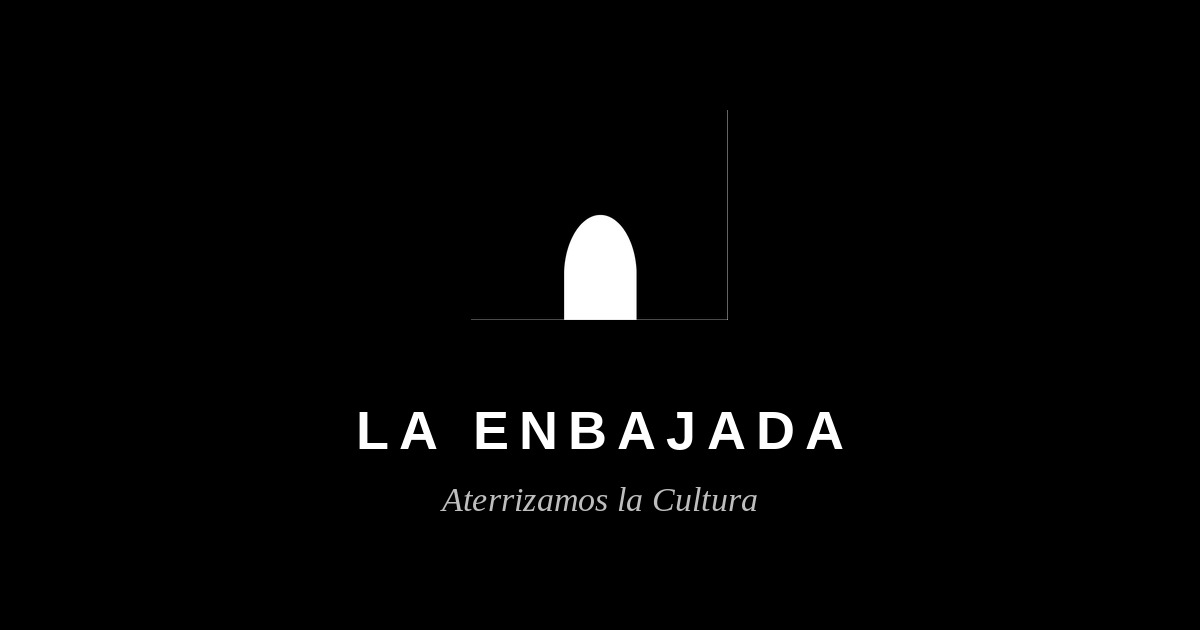
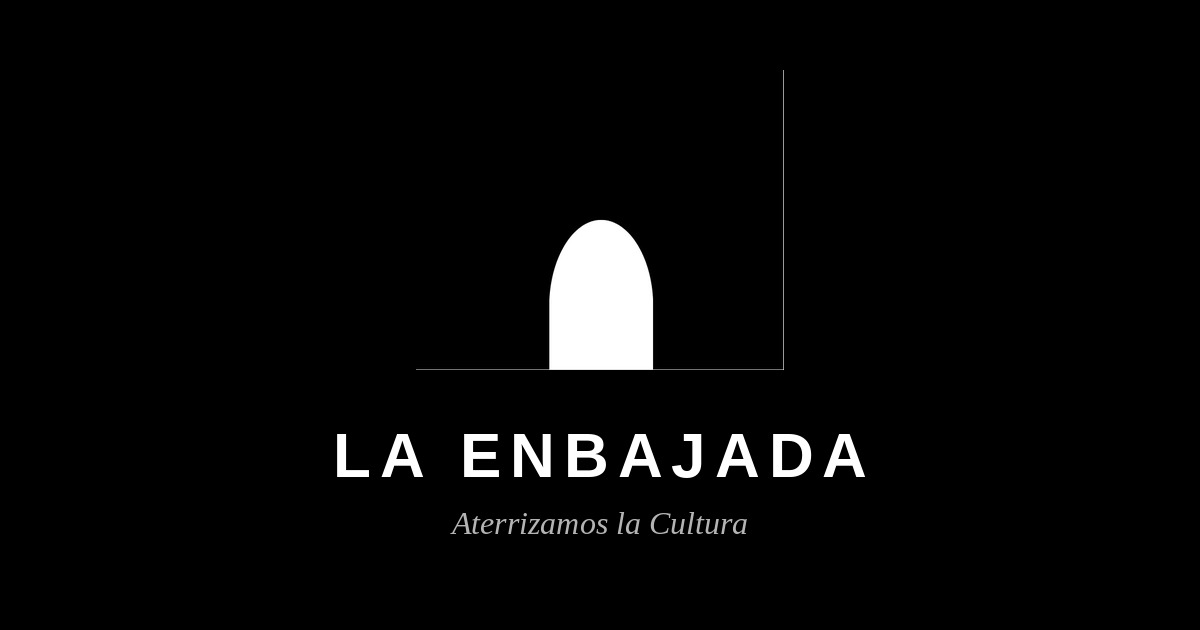
va

Changed region(s): [[0.2775, 0.6333, 0.74, 0.8444], [0.4317, 0.3921, 0.555, 0.6032], [0.4933, 0.3317, 0.5242, 0.3619]]

diff --git a/admin.html b/admin.html
@@ -4904,6 +4904,7 @@ async function cargarMetricas() {
   if (listPages) listPages.innerHTML = '<div class="empty"><div class="empty-ic">⌛</div><h3>Cargando…</h3></div>';
 
   try {
+    /* Leer visitas desde Supabase — tabla `visitas` */
     const rango = g('met-filtro-rango')?.value || 'todo';
     let filtro = 'order=created_at.desc';
     if (rango === 'hoy') {
@@ -4917,13 +4918,11 @@ async function cargarMetricas() {
       filtro += `&created_at=gte.${d30.toISOString()}`;
     }
 
-    const [visitas, arts] = await Promise.all([
-      SB.select('visitas', filtro + '&limit=5000').catch(() => null),
-      SB.select('articulos', 'select=id,titulo,slug,seccion_tag').catch(() => []),
-    ]);
+    const visitas = await SB.select('visitas', filtro + '&limit=2000').catch(() => null);
 
     if (!visitas) {
-      const msg = '<div style="padding:24px;text-align:center;color:var(--t3);font-size:13px">La tabla <code style="font-family:var(--mono)">visitas</code> no existe aún.</div>';
+      /* Tabla no existe aún */
+      const msg = '<div style="padding:24px;text-align:center;color:var(--t3);font-size:13px">La tabla <code style="font-family:var(--mono);background:var(--bg2);padding:1px 5px">visitas</code> no existe aún. Descarga el SQL de métricas y ejecútalo en Supabase.</div>';
       if (listArts)  listArts.innerHTML  = msg;
       if (listPages) listPages.innerHTML = msg;
       return;
@@ -4932,23 +4931,24 @@ async function cargarMetricas() {
     /* Totales */
     const hoy = new Date(); hoy.setHours(0,0,0,0);
     const d7  = new Date(); d7.setDate(d7.getDate()-7);
-    const total    = visitas.length;
-    const hoyCount = visitas.filter(v => new Date(v.created_at) >= hoy).length;
-    const semCount = visitas.filter(v => new Date(v.created_at) >= d7).length;
-    const uniqArts = new Set(visitas.filter(v=>v.tipo==='articulo').map(v=>v.referencia_id)).size;
-    const uniqSes  = new Set(visitas.map(v=>v.sesion_id).filter(Boolean)).size;
+    const total      = visitas.length;
+    const hoyCount   = visitas.filter(v => new Date(v.created_at) >= hoy).length;
+    const semCount   = visitas.filter(v => new Date(v.created_at) >= d7).length;
+    const uniqArts   = new Set(visitas.filter(v => v.tipo==='articulo').map(v=>v.referencia_id)).size;
 
-    if (g('met-total'))       g('met-total').textContent       = total.toLocaleString('es-CO');
-    if (g('met-hoy'))         g('met-hoy').textContent         = hoyCount;
-    if (g('met-semana'))      g('met-semana').textContent      = semCount.toLocaleString('es-CO');
+    if (g('met-total'))      g('met-total').textContent      = total.toLocaleString('es-CO');
+    if (g('met-hoy'))        g('met-hoy').textContent        = hoyCount;
+    if (g('met-semana'))     g('met-semana').textContent     = semCount.toLocaleString('es-CO');
     if (g('met-arts-vistos')) g('met-arts-vistos').textContent = uniqArts;
-    if (g('met-sesiones'))    g('met-sesiones').textContent    = uniqSes.toLocaleString('es-CO');
-
+    /* Sesiones únicas */
+    const uniqSes = new Set(visitas.map(v => v.sesion_id).filter(Boolean)).size;
+    if (g('met-sesiones'))   g('met-sesiones').textContent   = uniqSes.toLocaleString('es-CO');
+    /* Gráfico de tendencia */
     _renderMetChart(visitas);
 
     /* Artículos más leídos */
     const conteoArts = {};
-    visitas.filter(v=>v.tipo==='articulo'&&v.referencia_id).forEach(v=>{
+    visitas.filter(v => v.tipo === 'articulo' && v.referencia_id).forEach(v => {
       conteoArts[v.referencia_id] = (conteoArts[v.referencia_id]||0) + 1;
     });
     const artsSorted = Object.entries(conteoArts).sort((a,b)=>b[1]-a[1]).slice(0,20);
@@ -4957,28 +4957,31 @@ async function cargarMetricas() {
       if (!artsSorted.length) {
         listArts.innerHTML = '<div class="empty"><div class="empty-ic">📰</div><h3>Sin vistas de artículos aún</h3></div>';
       } else {
-        const maxV = artsSorted[0]?.[1] || 1;
+        const arts = await DB.getArticulos().catch(()=>[]);
+        const maxVistas = artsSorted[0]?.[1] || 1;
         listArts.innerHTML = artsSorted.map(([artId, cnt], i) => {
-          const art = (arts||[]).find(a => a.id === artId);
-          const artUrl = art?.slug && art?.seccion_tag
-            ? `/secciones/${art.seccion_tag}/${art.slug}`
-            : art?.slug ? `/historias/${art.slug}` : null;
-          const titulo = !art
-            ? `<span style="opacity:.45;font-size:12px">Artículo eliminado</span>`
-            : artUrl
-              ? `<a href="${artUrl}" target="_blank" style="color:inherit;text-decoration:none;font-style:italic">${art.titulo}</a>`
-              : `<span style="font-style:italic">${art.titulo}</span>`;
+          const art = arts.find(a => a.id === artId);
+          const eliminado = !art;
+          const titulo = eliminado
+            ? `<span style="opacity:.45;font-style:normal;font-size:12px">Artículo eliminado</span> <span style="font-family:var(--mono);font-size:10px;color:var(--t4)">${artId.slice(0,8)}…</span>`
+            : `<a href="articulo.html?id=${artId}" target="_blank" style="color:inherit;text-decoration:none;font-style:italic">${art.titulo}</a>`;
           const secBadge = art?.seccion_tag
-            ? `<span style="font-size:9px;font-family:var(--ui);color:var(--azul);background:rgba(0,74,173,.07);padding:1px 7px;border-radius:2px;font-weight:600">${art.seccion_tag}</span>` : '';
-          const pct = Math.round(cnt/maxV*100);
-          return `<div style="display:grid;grid-template-columns:22px 1fr 60px;gap:10px;align-items:center;padding:12px 18px;border-bottom:1px solid var(--bd)">
+            ? `<span style="font-size:9px;font-family:var(--sans);color:var(--azul);background:rgba(0,74,173,.07);padding:1px 7px;border-radius:2px;font-weight:600">${art.seccion_tag}</span>` : '';
+          const estadoBadge = art?.estado === 'borrador'
+            ? `<span style="font-size:9px;font-family:var(--sans);color:var(--t3);background:var(--paper2);padding:1px 7px;border-radius:2px">borrador</span>` : '';
+          const pct = Math.round(cnt / maxVistas * 100);
+          return `<div class="met-art-row" data-titulo="${eliminado?'eliminado '+(artId.slice(0,8)):art.titulo}" style="display:grid;grid-template-columns:22px 1fr 60px;gap:10px;align-items:center;padding:12px 18px;border-bottom:1px solid var(--bd);${eliminado?'opacity:.55;background:repeating-linear-gradient(45deg,transparent,transparent 4px,rgba(0,0,0,.02) 4px,rgba(0,0,0,.02) 8px)':''}">
             <div style="font-family:var(--mono);font-size:11px;color:var(--t4);text-align:right">${i+1}</div>
             <div>
-              <div style="font-family:var(--serif);font-size:14px;font-weight:700;color:var(--t1);margin-bottom:4px;display:flex;align-items:center;gap:6px;flex-wrap:wrap">${titulo} ${secBadge}</div>
-              <div style="height:3px;background:var(--bd);border-radius:2px"><div style="height:3px;background:var(--azul);border-radius:2px;width:${pct}%"></div></div>
+              <div style="font-family:var(--serif);font-size:14px;font-weight:700;color:var(--t1);margin-bottom:4px;display:flex;align-items:center;gap:6px;flex-wrap:wrap">
+                ${eliminado ? '🗑 ' : ''}${titulo} ${secBadge} ${estadoBadge}
+              </div>
+              <div style="height:3px;background:var(--bd);border-radius:2px">
+                <div style="height:3px;background:${eliminado?'var(--t4)':'var(--azul)'};border-radius:2px;width:${pct}%;transition:width .6s"></div>
+              </div>
             </div>
             <div style="text-align:right">
-              <div style="font-family:var(--mono);font-size:16px;font-weight:700;color:var(--azul)">${cnt}</div>
+              <div style="font-family:var(--mono);font-size:16px;font-weight:700;color:${eliminado?'var(--t3)':'var(--azul)'}">${cnt}</div>
               <div style="font-size:8px;letter-spacing:.1em;text-transform:uppercase;color:var(--t4)">vistas</div>
             </div>
           </div>`;
@@ -4986,10 +4989,10 @@ async function cargarMetricas() {
       }
     }
 
-    /* Páginas */
+    /* Páginas del sitio */
     const conteoPages = {};
-    visitas.filter(v=>v.tipo!=='articulo').forEach(v=>{
-      const p = v.pagina||'desconocida';
+    visitas.filter(v => v.tipo !== 'articulo').forEach(v => {
+      const p = v.pagina || 'desconocida';
       conteoPages[p] = (conteoPages[p]||0) + 1;
     });
     const pagesSorted = Object.entries(conteoPages).sort((a,b)=>b[1]-a[1]);
@@ -4998,15 +5001,16 @@ async function cargarMetricas() {
       if (!pagesSorted.length) {
         listPages.innerHTML = '<div class="empty"><div class="empty-ic">◈</div><h3>Sin visitas de páginas aún</h3></div>';
       } else {
-        const maxP = pagesSorted[0]?.[1]||1;
-        const icons = {index:'🏠',secciones:'◈',edicion:'📰',archivo:'◫',sobre:'◑',editor:'◉',articulo:'📄'};
-        listPages.innerHTML = pagesSorted.map(([pag,cnt])=>{
+        const maxP = pagesSorted[0]?.[1] || 1;
+        const icons = { index:'🏠', secciones:'◈', edicion:'📰', archivo:'◫', sobre:'◑', editor:'◉' };
+        listPages.innerHTML = pagesSorted.map(([pag, cnt]) => {
           const pct = Math.round(cnt/maxP*100);
+          const ic  = icons[pag] || '◎';
           return `<div style="display:grid;grid-template-columns:28px 1fr 60px;gap:10px;align-items:center;padding:12px 18px;border-bottom:1px solid var(--bd)">
-            <div style="text-align:center;font-size:14px">${icons[pag]||'◎'}</div>
+            <div style="text-align:center;font-size:14px">${ic}</div>
             <div>
-              <div style="font-family:var(--ui);font-size:12px;font-weight:700;letter-spacing:.05em;color:var(--t1);margin-bottom:4px">${pag}</div>
-              <div style="height:3px;background:var(--bd);border-radius:2px"><div style="height:3px;background:var(--azul);border-radius:2px;width:${pct}%"></div></div>
+              <div style="font-family:var(--ui);font-size:12px;font-weight:700;letter-spacing:.05em;color:var(--t1);margin-bottom:4px">${pag}.html</div>
+              <div style="height:3px;background:var(--bg2);border-radius:2px"><div style="height:3px;background:var(--oro2,#a07840);border-radius:2px;width:${pct}%;transition:width .6s var(--ease)"></div></div>
             </div>
             <div style="text-align:right">
               <div style="font-family:var(--mono);font-size:16px;font-weight:700;color:var(--t2)">${cnt}</div>
@@ -5016,8 +5020,9 @@ async function cargarMetricas() {
         }).join('');
       }
     }
+
   } catch(e) {
-    const msg = `<div style="padding:20px;color:#c0392b;font-size:13px">Error cargando métricas: ${e.message}</div>`;
+    const msg = `<div style="padding:20px;color:#c0392b;font-size:13px">Error: ${e.message}</div>`;
     if (listArts)  listArts.innerHTML  = msg;
     if (listPages) listPages.innerHTML = msg;
   }
@@ -7137,9 +7142,35 @@ async function guardarEditor() {
   if (!nombre) { notif('El nombre es obligatorio','warn'); return; }
   const overlay = g('loading-overlay'); if (overlay) overlay.classList.add('show');
   try {
+    /* ── Foto: subir a Storage solo si es base64 (nueva) ──
+       FIX: antes esto guardaba el base64 directo en foto_url sin subirlo
+       a Storage (a diferencia de artículos y ediciones, que sí lo hacían).
+       Un foto_url en base64 funciona para mostrarla en la propia página,
+       pero no sirve como og:image para los previews de WhatsApp/Facebook,
+       que necesitan una URL http(s) real y descargable. */
     const fotoData = g('ed-foto-data')?.value || '';
-    const fotoUrl  = g('ed-foto-url')?.value?.trim() || '';
-    const foto     = fotoData || fotoUrl || null;
+    let foto = g('ed-foto-url')?.value?.trim() || null;
+    if (fotoData && fotoData.startsWith('data:')) {
+      try {
+        const blob = await fetch(fotoData).then(r => r.blob());
+        const ext  = blob.type.includes('png') ? 'png' : 'jpg';
+        const nombreArchivo = `editores/${Date.now()}.${ext}`;
+        const res = await fetch(`${SUPA_URL}/storage/v1/object/imagenes/${nombreArchivo}`, {
+          method: 'POST',
+          headers: { 'apikey': SUPA_KEY, 'Authorization': `Bearer ${SUPA_KEY}`, 'Content-Type': blob.type, 'x-upsert': 'true' },
+          body: blob,
+        });
+        if (res.ok) {
+          foto = `${SUPA_URL}/storage/v1/object/public/imagenes/${nombreArchivo}`;
+        } else {
+          foto = fotoData; /* fallback: al menos queda visible en el sitio */
+        }
+      } catch(e) {
+        foto = fotoData; /* fallback */
+      }
+    } else if (!foto) {
+      foto = fotoData || null;
+    }
     const payload  = {
       nombre, foto_url: foto, activo: true,
       slug:  _slugify(g('ed-slug')?.value || nombre),
@@ -7157,7 +7188,7 @@ async function guardarEditor() {
 
     /* Reasignar órdenes secuenciales para evitar duplicados y huecos */
     try {
-      const todosEds = await SB.select('editores', 'activo=eq.true&order=orden.asc,created_at.asc');
+      const todosEds = await SB.select('editores', 'activo=eq.true&order=orden.asc,nombre.asc');
       /* Si el editor guardado tiene un orden distinto, insertarlo en esa posición */
       const nuevoOrden = payload.orden;
       const edId = id || null;
@@ -7203,7 +7234,7 @@ let _editoresSelector = [];
 async function cargarEditoresEnSelector() {
   const sel = g('f-editor-id'); if (!sel) return;
   try {
-    const eds = await SB.select('editores', 'activo=eq.true&order=orden.asc,created_at.asc');
+    const eds = await SB.select('editores', 'activo=eq.true&order=orden.asc,nombre.asc');
     _editoresSelector = eds || [];
     const cur = sel.value;
     sel.innerHTML = '<option value="">— Sin editor vinculado —</option>'

diff --git a/articulo.html b/articulo.html
@@ -1063,9 +1063,18 @@ async function init() {
   if (!a) { window.location.href = '/404.html'; return; }
   _renderNavSecs(_secsNav);
 
-  /* URL canónica: solo slug, sin id */
+  /* URL canónica: solo slug, sin id.
+     FIX: antes, cualquier valor no vacío en seccion_tag (incluso uno viejo
+     como "historias" que no es una sección real) se usaba tal cual para
+     armar /secciones/{tag}/{slug} — por eso salía la URL rara
+     "/secciones/historias/...". Ahora solo se usa /secciones/{tag}/ si el
+     tag es una de las 3 secciones reales; si no, cae a /historias/{slug}. */
+  const VALID_TAGS = ['la-cronica', 'la-conversacion', 'la-curaturia'];
+  const TAG_ALIASES = { 'cronica':'la-cronica','conversacion':'la-conversacion','curatia':'la-curaturia','curaturia':'la-curaturia','la-curatia':'la-curaturia' };
   const cleanSlug = a.slug || _normalizeSlug(a.titulo);
-  const cleanTag  = (a.seccion_tag || '').replace(/#/g,'').trim();
+  const rawTag = (a.seccion_tag || '').toLowerCase().normalize('NFD').replace(/[\u0300-\u036f]/g,'').replace(/#/g,'').replace(/\s+/g,'-').trim();
+  const normalizedTag = TAG_ALIASES[rawTag] || rawTag;
+  const cleanTag = VALID_TAGS.includes(normalizedTag) ? normalizedTag : '';
   const cleanUrl  = cleanTag ? `/secciones/${cleanTag}/${cleanSlug}` : `/historias/${cleanSlug}`;
   history.replaceState(null, '', cleanUrl);
 

diff --git a/netlify/edge-functions/sitemap.js b/netlify/edge-functions/sitemap.js
@@ -56,7 +56,13 @@ export default async (request) => {
         .filter(a => a.slug)
         .map(a => {
           const lastmod = (a.updated_at || a.created_at || '').split('T')[0];
-          const tag    = (a.seccion_tag || '').replace(/#/g,'').trim();
+          /* FIX: mismo criterio que og.js/articulo.html — solo tratar el tag
+             como sección real si es una de las 3 válidas. */
+          const VALID_TAGS = ['la-cronica', 'la-conversacion', 'la-curaturia'];
+          const TAG_ALIASES = { 'cronica':'la-cronica','conversacion':'la-conversacion','curatia':'la-curaturia','curaturia':'la-curaturia','la-curatia':'la-curaturia' };
+          const rawTag = (a.seccion_tag||'').toLowerCase().normalize('NFD').replace(/[\u0300-\u036f]/g,'').replace(/#/g,'').replace(/\s+/g,'-').trim();
+          const normalizedTag = TAG_ALIASES[rawTag] || rawTag;
+          const tag = VALID_TAGS.includes(normalizedTag) ? normalizedTag : '';
           const artUrl = tag
             ? `https://laenbajada.com/secciones/${tag}/${a.slug}`
             : `https://laenbajada.com/historias/${a.slug}`;